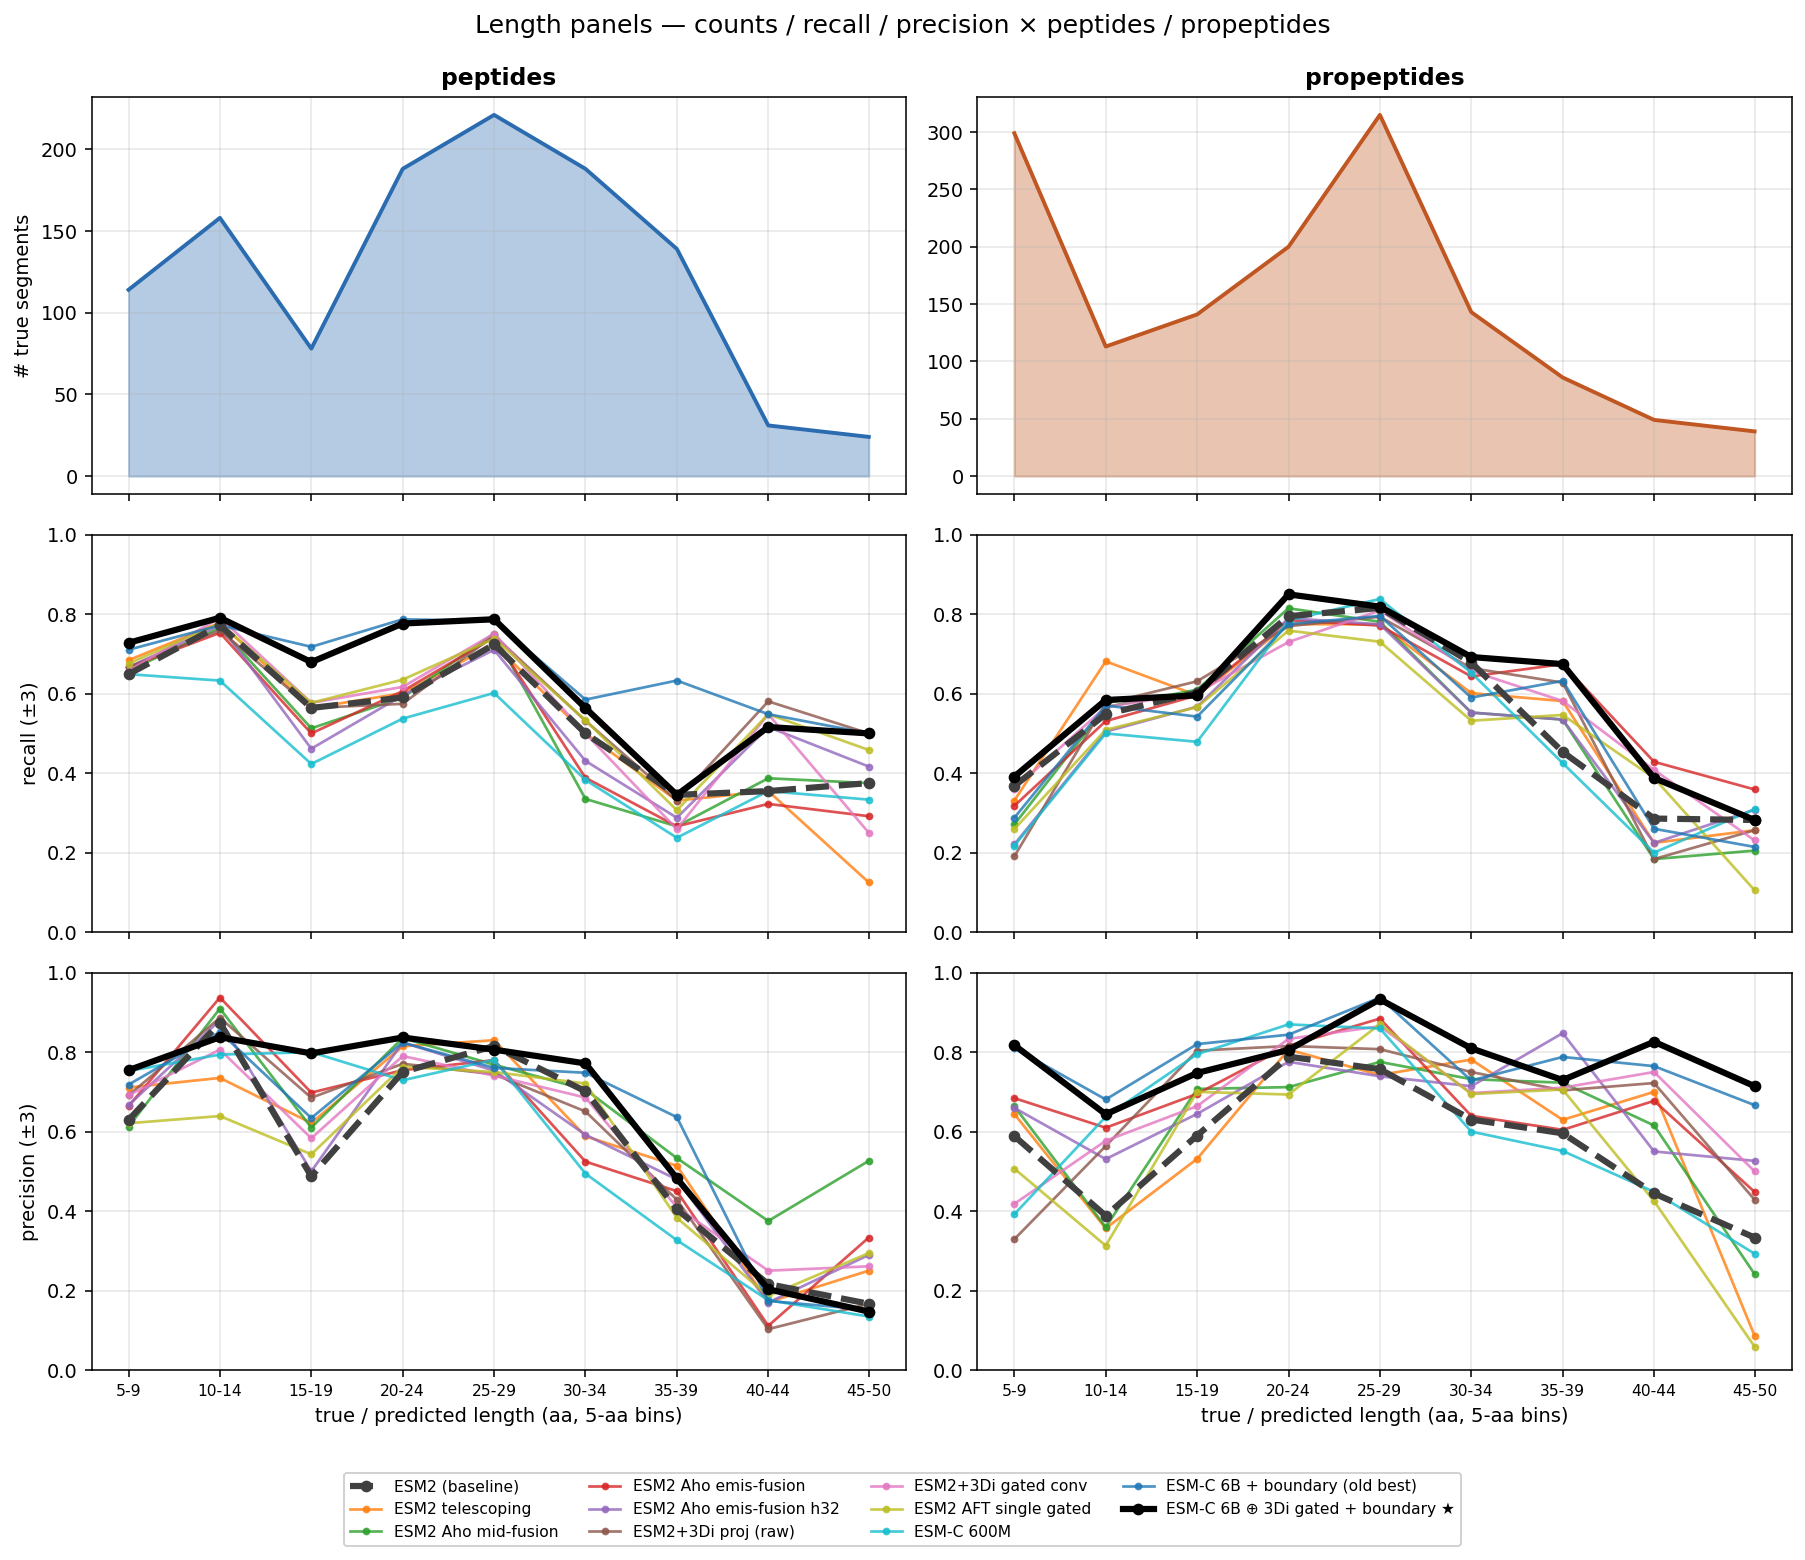
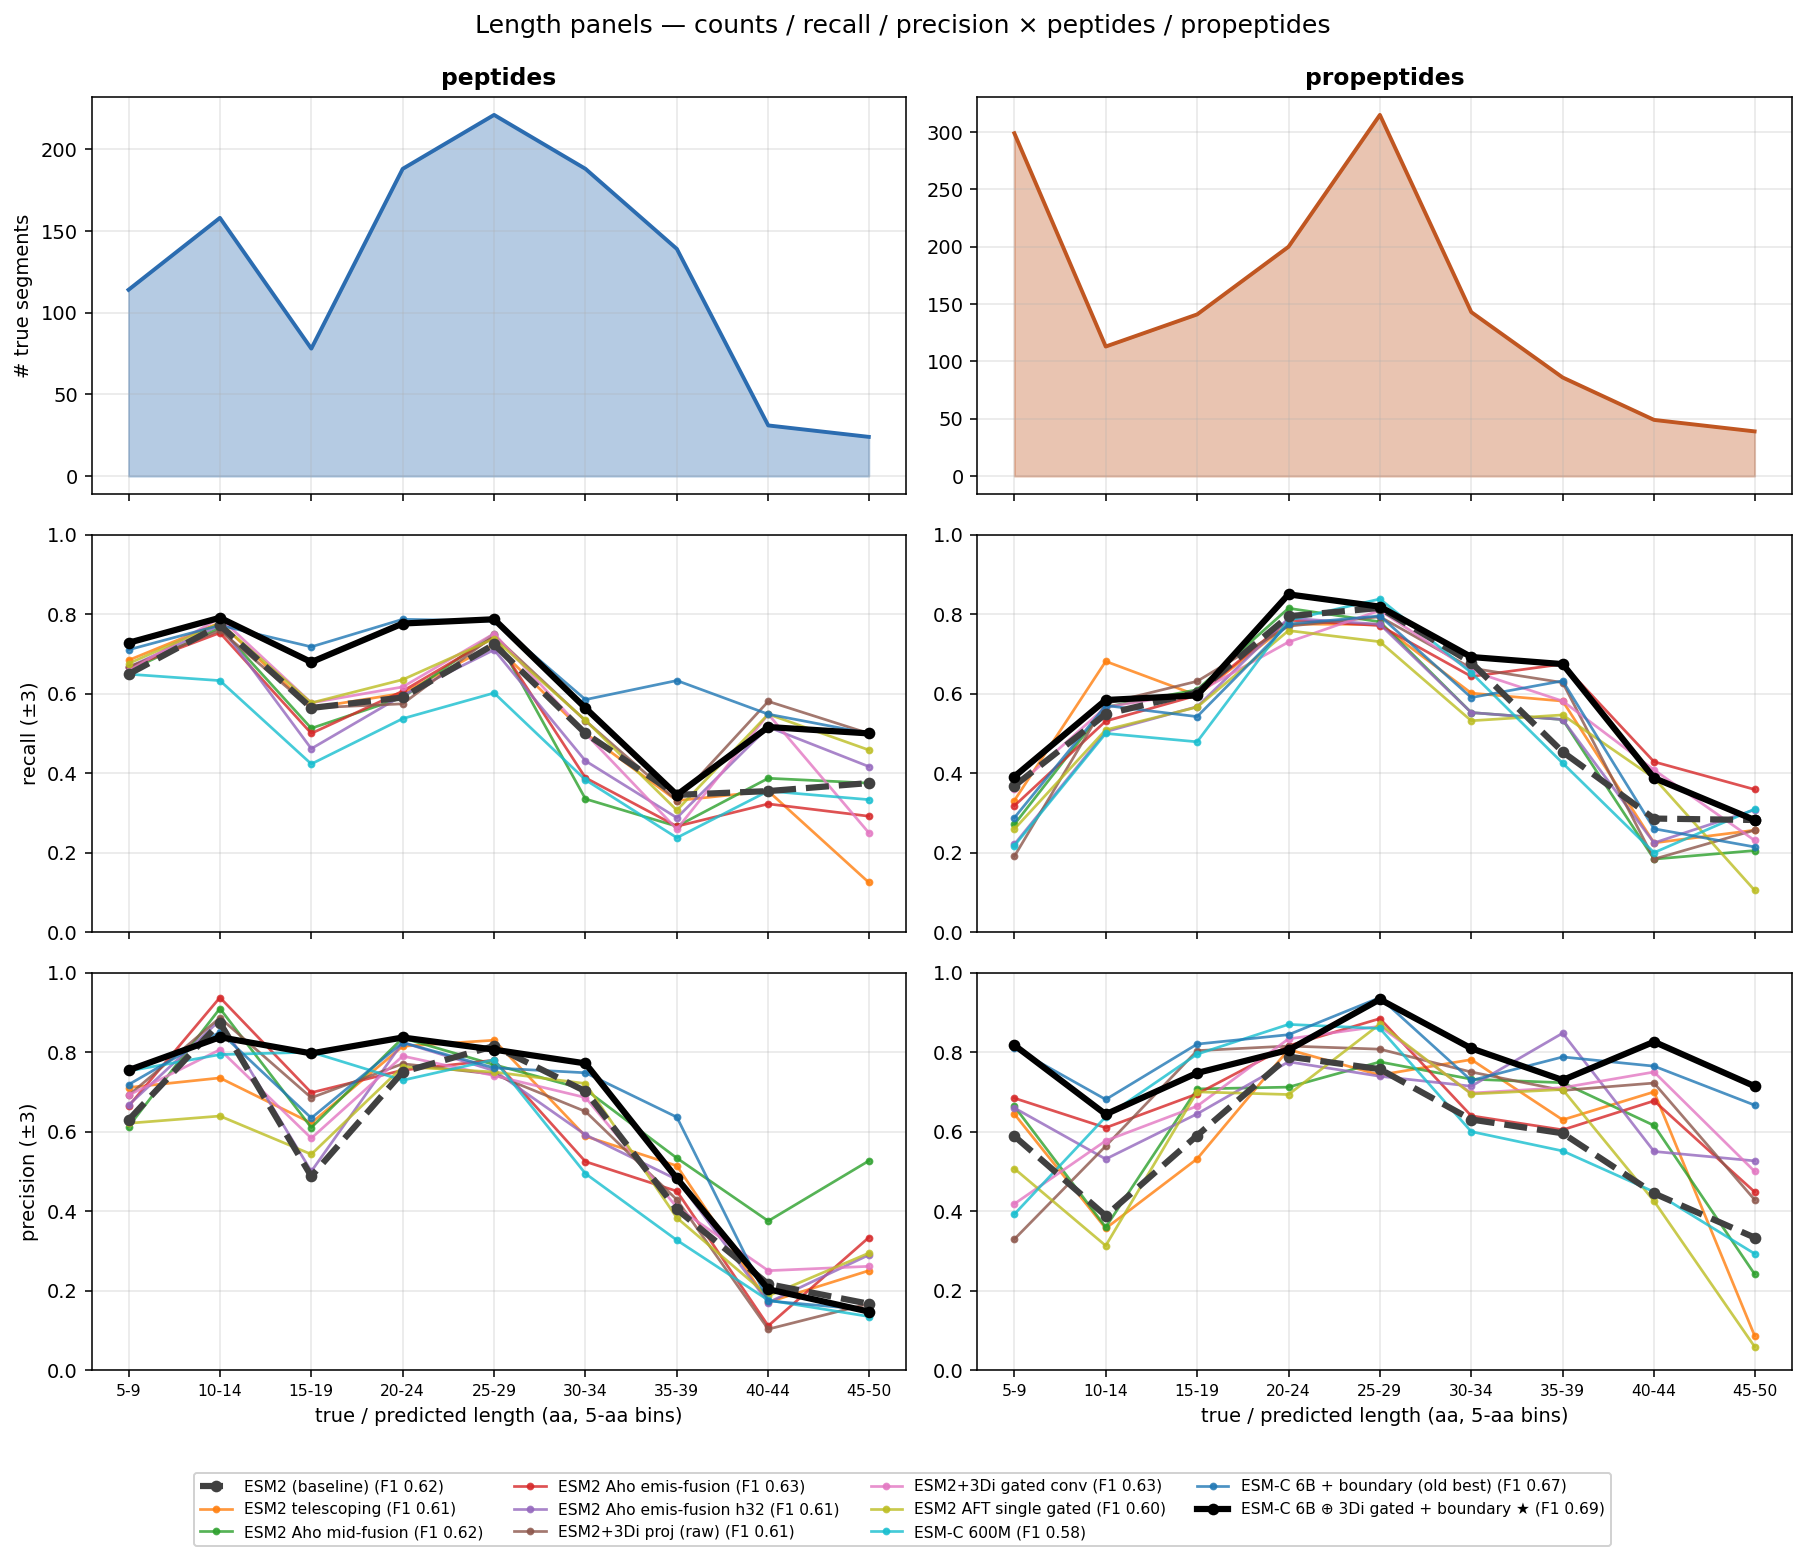
Show overall F1 (all ±3) in the length-panels legend per model
Append each run's headline new±3 all-F1 from the big table to its legend label, so the
recall/precision-by-length curves carry the overall ranking inline (ESM-C 6B⊕3Di 0.69,
old boundary winner 0.67, baseline 0.62, ...). Note: the 3Di runs' F1 is on the reduced
1503-protein test set (documented in the big-table footnote).

Changed region(s): [[0.0931, 0.9231, 0.4654, 1.0], [0.6205, 0.9231, 0.8997, 0.9846]]

diff --git a/analysis/errors/src/plot_length_panels.py b/analysis/errors/src/plot_length_panels.py
@@ -91,11 +91,29 @@ def style(run):
                 marker="o", markersize=5 if (is_w or is_b) else 3)
 
 
+def _f1_labels():
+    """run -> ' (F1 0.69)' suffix from the big table (new±3 all, fallback old)."""
+    import csv
+    bt = ROOT / "analysis" / "metrics" / "big_metrics_table.csv"
+    out = {}
+    if bt.exists():
+        for r in csv.DictReader(open(bt)):
+            v = r.get("new_f1_all") or ""
+            if v in ("", "N/A"):
+                v = r.get("old_f1_all") or ""
+            try:
+                out[r["run"]] = f" (F1 {float(v):.2f})"
+            except ValueError:
+                out[r["run"]] = ""
+    return out
+
+
 def main():
     dframes = {p.name[:-len("__segments.csv")]: pd.read_csv(p)
                for p in sorted(STATS.glob("*__segments.csv"))}
     ordered = [r for r in ORDER if r in dframes] + [r for r in dframes if r not in ORDER]
     has_pred = any("tp_pred" in d.kind.values for d in dframes.values())
+    f1lab = _f1_labels()
 
     fig, axes = plt.subplots(3, 2, figsize=(13, 11), sharex=True)
     x = np.array(CENTERS)
@@ -113,7 +131,8 @@ def main():
             ax = axes[ri][col]
             for run in ordered:
                 y = binstat(dframes[run], task, "true", value)
-                ax.plot(x, y, label=LABELS.get(run, run), **style(run))
+                lab = LABELS.get(run, run) + (f1lab.get(run, "") if (ri == 1 and col == 0) else "")
+                ax.plot(x, y, label=lab, **style(run))
             ax.set_ylim(0, 1)
             if col == 0:
                 ax.set_ylabel(f"{value} (±3)")
